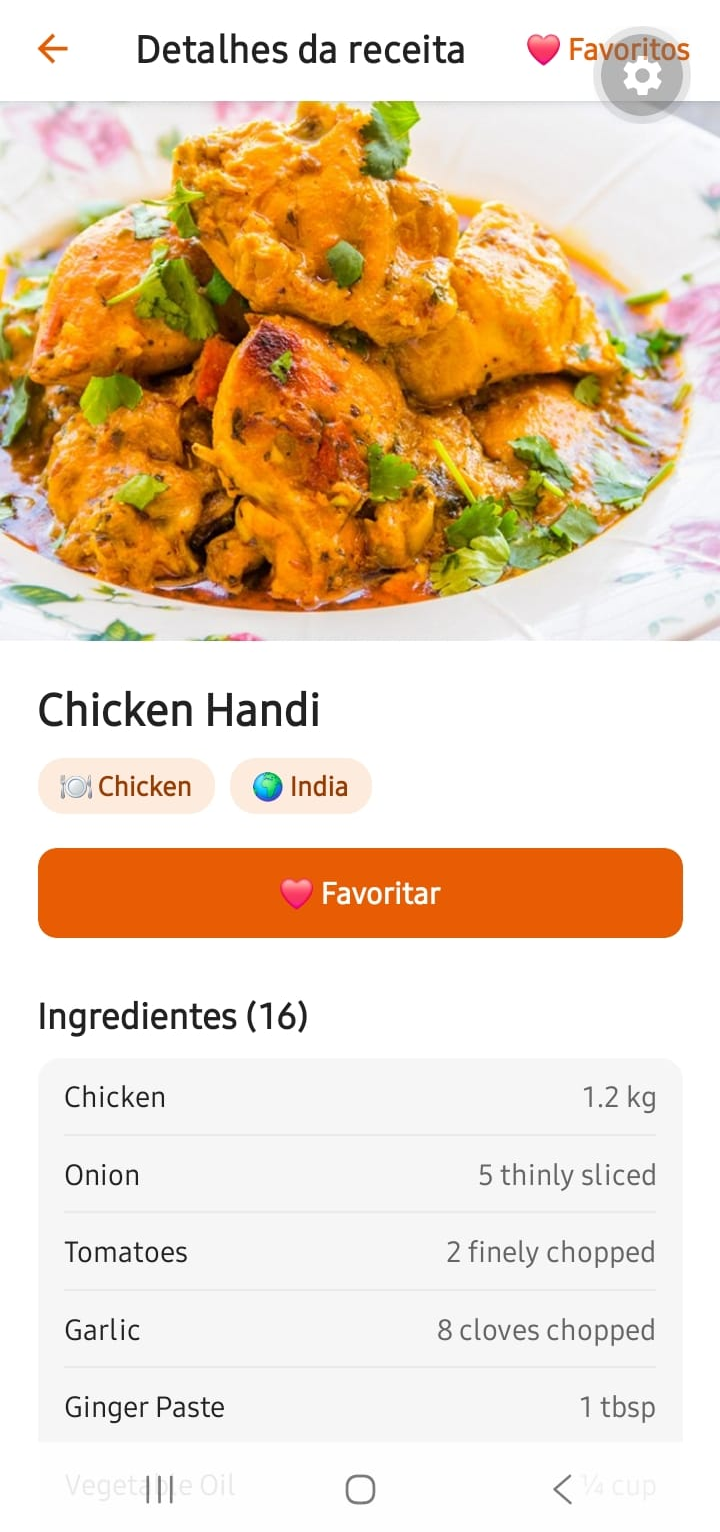
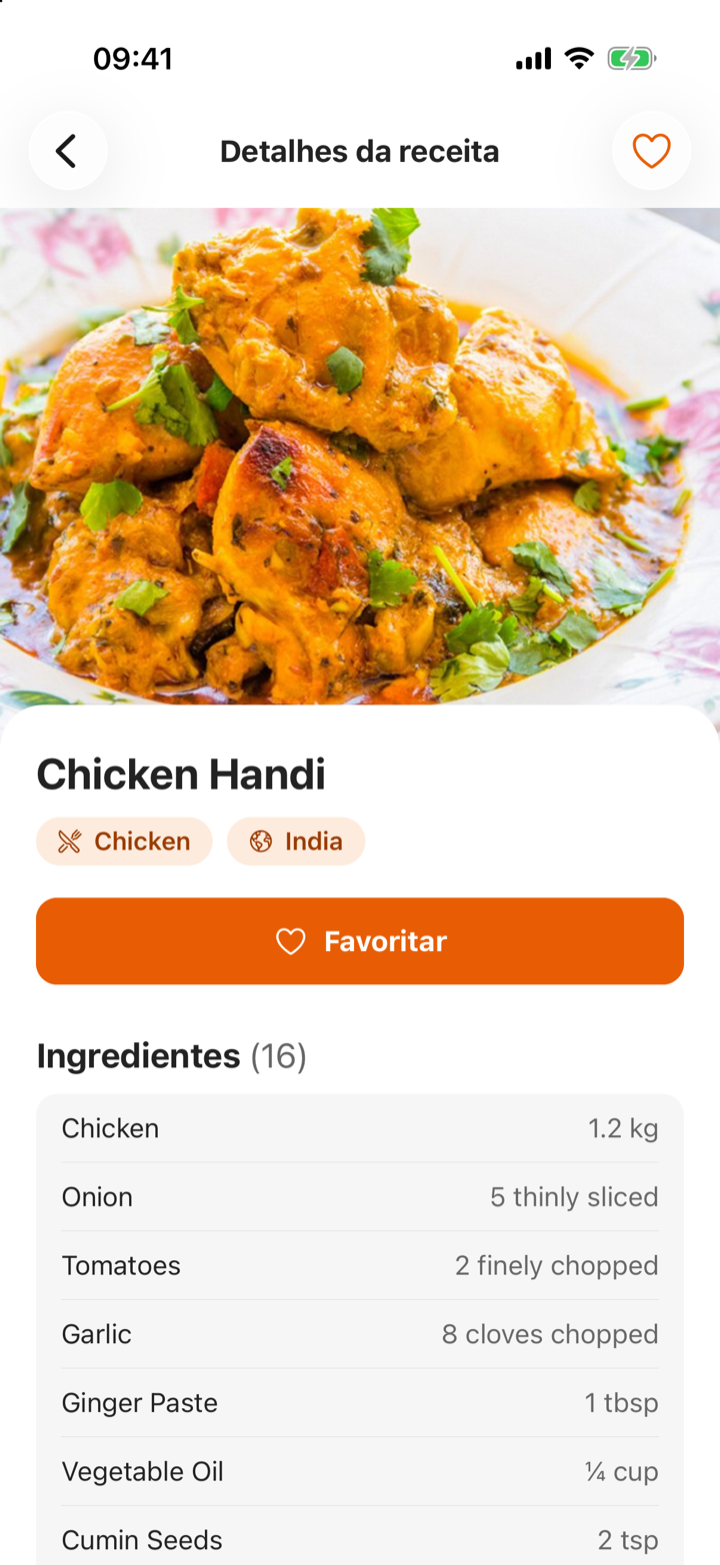
README: prints novos com o layout atual e estrutura atualizada
- Os cinco prints foram tirados de novo no simulador de iPhone
- A estrutura do projeto agora mostra prints/, theme/cores.js e IconeCirculo

diff --git a/README.md b/README.md
@@ -82,17 +82,21 @@ Escaneie o QR code com o Expo Go (no Android, pelo próprio app; no iPhone, pela
 programa-o-mobile-trabalho/
 ├── ROTEIRO.md
 ├── README.md
+├── prints/                         telas do app usadas abaixo
 └── FoodUMJ/
-    ├── App.js                      navegação e Provider dos favoritos
+    ├── App.js                      navegação, Provider e coração dos favoritos
     └── src/
         ├── services/api.js         chamadas à TheMealDB
-        ├── components/             Carregando, MensagemErro, ReceitaCard
+        ├── components/             Carregando, MensagemErro, ReceitaCard, IconeCirculo
         ├── screens/                Home, Resultados, Detalhes, Favoritos
         ├── context/                FavoritosContext
+        ├── theme/cores.js          paleta de cores do app
         └── utils/ingredientes.js   junta ingredientes e medidas
 ```
 
 ## Prints
+
+Tirados no simulador de iPhone, pelo Expo Go.
 
 | Início | Resultados | Detalhes |
 |---|---|---|
